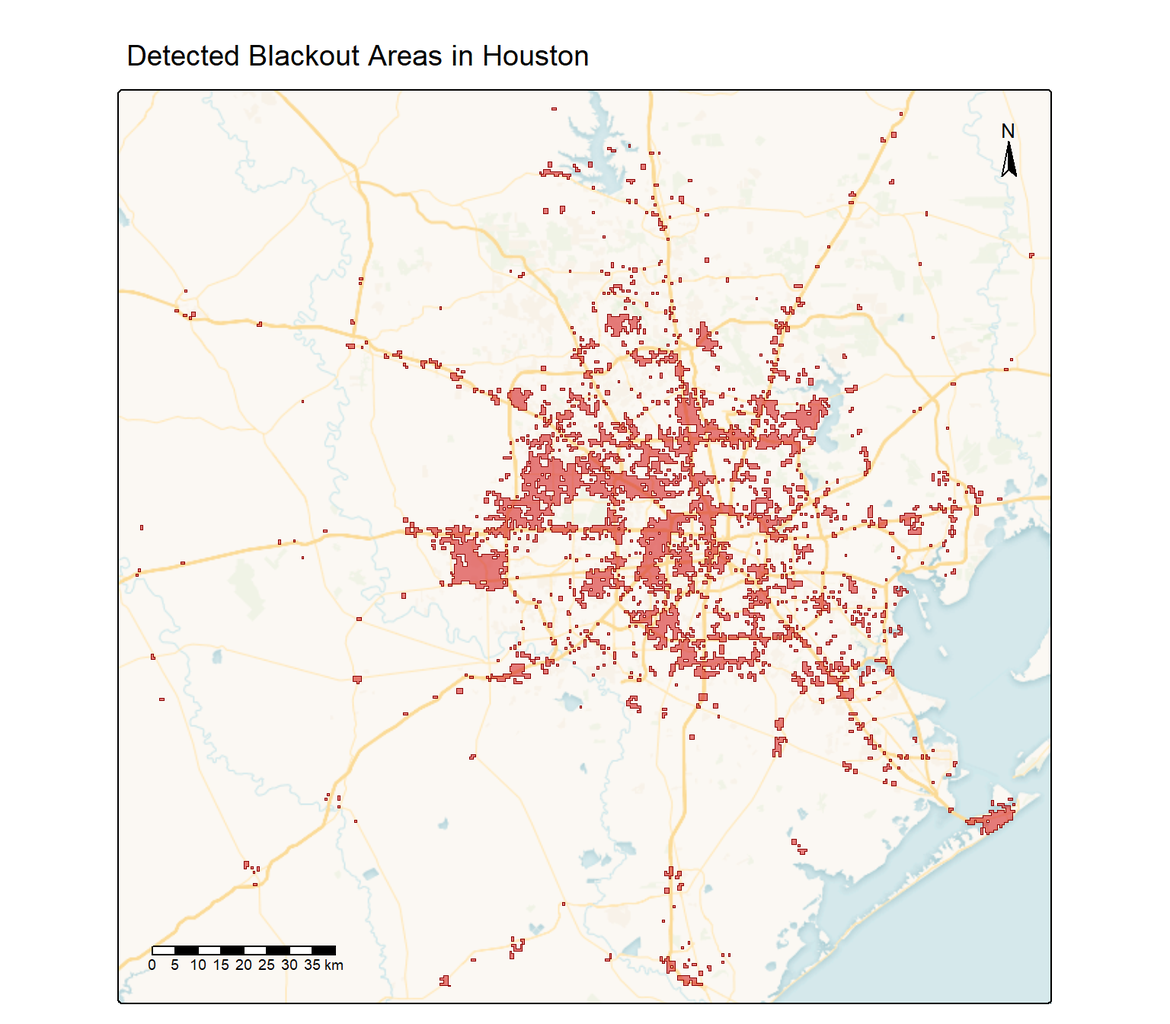
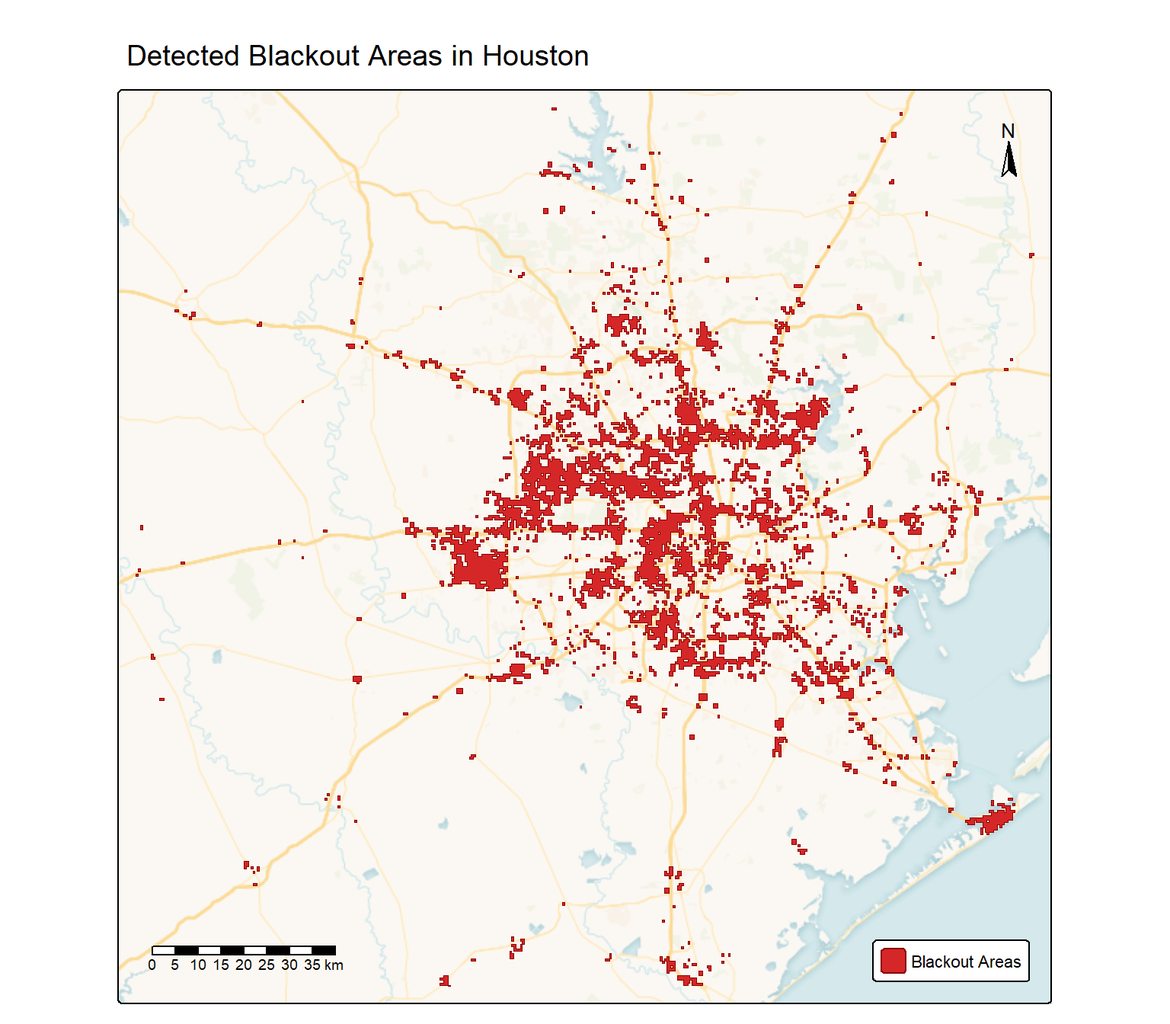
eds232 blog corrections

diff --git a/docs/posts/eds223-final/index.html b/docs/posts/eds223-final/index.html
@@ -228,16 +228,25 @@ div.csl-indent {
                   </div>
   </div>
     
-  
+  <div class="quarto-title-meta-author column-page-left">
+    <div class="quarto-title-meta-heading">Author</div>
+    <div class="quarto-title-meta-heading">Affiliation</div>
+    
+      <div class="quarto-title-meta-contents">
[1 lines of base64/hex data omitted]
+    </div>
+    <div class="quarto-title-meta-contents">
+          <p class="affiliation">
+              <a href="https://bren.ucsb.edu/">
+              The Bren School of Environmental Science and Management, UCSB
+              </a>
+            </p>
+        </div>
+    </div>
+
   <div class="quarto-title-meta column-page-left">
 
-      <div>
-      <div class="quarto-title-meta-heading">Author</div>
-      <div class="quarto-title-meta-contents">
-               <p>Emily Miller </p>
-            </div>
-    </div>
-      
+        
       <div>
       <div class="quarto-title-meta-heading">Published</div>
       <div class="quarto-title-meta-contents">
@@ -283,9 +292,8 @@ div.csl-indent {
   <li><a href="#discussion" id="toc-discussion" class="nav-link" data-scroll-target="#discussion">Discussion</a>
   <ul class="collapse">
   <li><a href="#main-findings" id="toc-main-findings" class="nav-link" data-scroll-target="#main-findings">Main Findings</a></li>
-  <li><a href="#broader-implications" id="toc-broader-implications" class="nav-link" data-scroll-target="#broader-implications">Broader Implications</a></li>
-  <li><a href="#limitations-and-future-directions" id="toc-limitations-and-future-directions" class="nav-link" data-scroll-target="#limitations-and-future-directions">Limitations and Future Directions</a></li>
-  <li><a href="#policy-recommendations" id="toc-policy-recommendations" class="nav-link" data-scroll-target="#policy-recommendations">Policy Recommendations</a></li>
+  <li><a href="#limitations" id="toc-limitations" class="nav-link" data-scroll-target="#limitations">Limitations</a></li>
+  <li><a href="#policy-implications" id="toc-policy-implications" class="nav-link" data-scroll-target="#policy-implications">Policy Implications</a></li>
   </ul></li>
   <li><a href="#conclusion" id="toc-conclusion" class="nav-link" data-scroll-target="#conclusion">Conclusion</a></li>
   <li><a href="#data-sources-and-acknowledgments" id="toc-data-sources-and-acknowledgments" class="nav-link" data-scroll-target="#data-sources-and-acknowledgments">Data Sources and Acknowledgments</a></li>
@@ -499,19 +507,30 @@ div.csl-indent {
 <div class="cell">
 <details class="code-fold">
 <summary>Code</summary>
-<div class="code-copy-outer-scaffold"><div class="sourceCode cell-code" id="cb7"><pre class="sourceCode r code-with-copy"><code class="sourceCode r"><span id="cb7-1"><a href="#cb7-1" aria-hidden="true" tabindex="-1"></a>blackout_houston_union <span class="ot">&lt;-</span> <span class="fu">st_union</span>(blackout_houston)</span>
-<span id="cb7-2"><a href="#cb7-2" aria-hidden="true" tabindex="-1"></a></span>
-<span id="cb7-3"><a href="#cb7-3" aria-hidden="true" tabindex="-1"></a><span class="fu">tm_basemap</span>(<span class="st">"CartoDB.VoyagerNoLabels"</span>) <span class="sc">+</span></span>
-<span id="cb7-4"><a href="#cb7-4" aria-hidden="true" tabindex="-1"></a>  <span class="fu">tm_shape</span>(blackout_houston_union) <span class="sc">+</span></span>
-<span id="cb7-5"><a href="#cb7-5" aria-hidden="true" tabindex="-1"></a>  <span class="fu">tm_polygons</span>(<span class="at">fill =</span> <span class="st">"#d62728"</span>,</span>
-<span id="cb7-6"><a href="#cb7-6" aria-hidden="true" tabindex="-1"></a>              <span class="at">fill_alpha =</span> <span class="fl">0.6</span>,</span>
-<span id="cb7-7"><a href="#cb7-7" aria-hidden="true" tabindex="-1"></a>              <span class="at">col =</span> <span class="st">"#8b0000"</span>,</span>
-<span id="cb7-8"><a href="#cb7-8" aria-hidden="true" tabindex="-1"></a>              <span class="at">lwd =</span> <span class="fl">0.5</span>) <span class="sc">+</span></span>
-<span id="cb7-9"><a href="#cb7-9" aria-hidden="true" tabindex="-1"></a>  <span class="fu">tm_title</span>(<span class="st">"Detected Blackout Areas in Houston"</span>, <span class="at">size =</span> <span class="fl">1.2</span>) <span class="sc">+</span></span>
-<span id="cb7-10"><a href="#cb7-10" aria-hidden="true" tabindex="-1"></a>  <span class="fu">tm_layout</span>(<span class="at">legend.show =</span> <span class="cn">FALSE</span>,</span>
-<span id="cb7-11"><a href="#cb7-11" aria-hidden="true" tabindex="-1"></a>            <span class="at">fontfamily =</span> <span class="st">"sans"</span>) <span class="sc">+</span></span>
-<span id="cb7-12"><a href="#cb7-12" aria-hidden="true" tabindex="-1"></a>  <span class="fu">tm_scalebar</span>(<span class="at">position =</span> <span class="fu">c</span>(<span class="st">"left"</span>, <span class="st">"bottom"</span>), <span class="at">text.size =</span> <span class="fl">0.6</span>) <span class="sc">+</span></span>
-<span id="cb7-13"><a href="#cb7-13" aria-hidden="true" tabindex="-1"></a>  <span class="fu">tm_compass</span>(<span class="at">position =</span> <span class="fu">c</span>(<span class="st">"right"</span>, <span class="st">"top"</span>), <span class="at">size =</span> <span class="fl">1.5</span>)</span></code></pre></div><button title="Copy to Clipboard" class="code-copy-button"><i class="bi"></i></button></div>
+<div class="code-copy-outer-scaffold"><div class="sourceCode cell-code" id="cb7"><pre class="sourceCode r code-with-copy"><code class="sourceCode r"><span id="cb7-1"><a href="#cb7-1" aria-hidden="true" tabindex="-1"></a>road_color <span class="ot">&lt;-</span> <span class="st">"#FDB863"</span></span>
+<span id="cb7-2"><a href="#cb7-2" aria-hidden="true" tabindex="-1"></a>fill_color <span class="ot">&lt;-</span> <span class="st">"#d62728"</span></span>
+<span id="cb7-3"><a href="#cb7-3" aria-hidden="true" tabindex="-1"></a>border_color <span class="ot">&lt;-</span> <span class="st">"#8b0000"</span></span>
+<span id="cb7-4"><a href="#cb7-4" aria-hidden="true" tabindex="-1"></a></span>
+<span id="cb7-5"><a href="#cb7-5" aria-hidden="true" tabindex="-1"></a>blackout_houston_union <span class="ot">&lt;-</span> <span class="fu">st_union</span>(blackout_houston)</span>
+<span id="cb7-6"><a href="#cb7-6" aria-hidden="true" tabindex="-1"></a></span>
+<span id="cb7-7"><a href="#cb7-7" aria-hidden="true" tabindex="-1"></a><span class="fu">tm_basemap</span>(<span class="st">"CartoDB.VoyagerNoLabels"</span>) <span class="sc">+</span></span>
+<span id="cb7-8"><a href="#cb7-8" aria-hidden="true" tabindex="-1"></a>  <span class="fu">tm_shape</span>(blackout_houston_union) <span class="sc">+</span></span>
+<span id="cb7-9"><a href="#cb7-9" aria-hidden="true" tabindex="-1"></a>  <span class="fu">tm_polygons</span>(<span class="at">fill =</span> fill_color,</span>
+<span id="cb7-10"><a href="#cb7-10" aria-hidden="true" tabindex="-1"></a>              <span class="at">col =</span> border_color,</span>
+<span id="cb7-11"><a href="#cb7-11" aria-hidden="true" tabindex="-1"></a>              <span class="at">lwd =</span> <span class="fl">0.5</span>) <span class="sc">+</span></span>
+<span id="cb7-12"><a href="#cb7-12" aria-hidden="true" tabindex="-1"></a>  <span class="fu">tm_title</span>(<span class="st">"Detected Blackout Areas in Houston"</span>, <span class="at">size =</span> <span class="fl">1.2</span>) <span class="sc">+</span></span>
+<span id="cb7-13"><a href="#cb7-13" aria-hidden="true" tabindex="-1"></a>  <span class="fu">tm_add_legend</span>(<span class="at">type =</span> <span class="st">"polygons"</span>,</span>
+<span id="cb7-14"><a href="#cb7-14" aria-hidden="true" tabindex="-1"></a>                <span class="at">fill =</span> fill_color,</span>
+<span id="cb7-15"><a href="#cb7-15" aria-hidden="true" tabindex="-1"></a>                <span class="at">col =</span> border_color,</span>
+<span id="cb7-16"><a href="#cb7-16" aria-hidden="true" tabindex="-1"></a>                <span class="at">border.lwd =</span> <span class="fl">0.5</span>,</span>
+<span id="cb7-17"><a href="#cb7-17" aria-hidden="true" tabindex="-1"></a>                <span class="at">labels =</span> <span class="st">"Blackout Areas"</span>,</span>
+<span id="cb7-18"><a href="#cb7-18" aria-hidden="true" tabindex="-1"></a>                <span class="at">title =</span> <span class="st">""</span>) <span class="sc">+</span></span>
+<span id="cb7-19"><a href="#cb7-19" aria-hidden="true" tabindex="-1"></a>  <span class="fu">tm_layout</span>(<span class="at">legend.position =</span> <span class="fu">c</span>(<span class="st">"right"</span>, <span class="st">"bottom"</span>),</span>
+<span id="cb7-20"><a href="#cb7-20" aria-hidden="true" tabindex="-1"></a>            <span class="at">legend.bg.color =</span> <span class="st">"white"</span>,</span>
+<span id="cb7-21"><a href="#cb7-21" aria-hidden="true" tabindex="-1"></a>            <span class="at">legend.bg.alpha =</span> <span class="fl">0.8</span>,</span>
+<span id="cb7-22"><a href="#cb7-22" aria-hidden="true" tabindex="-1"></a>            <span class="at">text.fontfamily =</span> <span class="st">"sans"</span>) <span class="sc">+</span></span>
+<span id="cb7-23"><a href="#cb7-23" aria-hidden="true" tabindex="-1"></a>  <span class="fu">tm_scalebar</span>(<span class="at">position =</span> <span class="fu">c</span>(<span class="st">"left"</span>, <span class="st">"bottom"</span>), <span class="at">text.size =</span> <span class="fl">0.6</span>) <span class="sc">+</span></span>
+<span id="cb7-24"><a href="#cb7-24" aria-hidden="true" tabindex="-1"></a>  <span class="fu">tm_compass</span>(<span class="at">position =</span> <span class="fu">c</span>(<span class="st">"right"</span>, <span class="st">"top"</span>), <span class="at">size =</span> <span class="fl">1.5</span>)</span></code></pre></div><button title="Copy to Clipboard" class="code-copy-button"><i class="bi"></i></button></div>
 </details>
 <div class="cell-output-display">
 <div class="quarto-figure quarto-figure-center">
@@ -544,35 +563,28 @@ div.csl-indent {
 <summary>Code</summary>
 <div class="code-copy-outer-scaffold"><div class="sourceCode cell-code" id="cb9"><pre class="sourceCode r code-with-copy"><code class="sourceCode r"><span id="cb9-1"><a href="#cb9-1" aria-hidden="true" tabindex="-1"></a><span class="co"># Visualize the highway exclusion process</span></span>
 <span id="cb9-2"><a href="#cb9-2" aria-hidden="true" tabindex="-1"></a><span class="fu">tm_basemap</span>(<span class="st">"CartoDB.VoyagerNoLabels"</span>) <span class="sc">+</span></span>
-<span id="cb9-3"><a href="#cb9-3" aria-hidden="true" tabindex="-1"></a>  <span class="fu">tm_shape</span>(<span class="fu">st_union</span>(blackout_houston)) <span class="sc">+</span></span>
-<span id="cb9-4"><a href="#cb9-4" aria-hidden="true" tabindex="-1"></a>  <span class="fu">tm_polygons</span>(<span class="at">fill =</span> <span class="st">"#d62728"</span>,</span>
-<span id="cb9-5"><a href="#cb9-5" aria-hidden="true" tabindex="-1"></a>              <span class="at">fill_alpha =</span> <span class="fl">0.3</span>,</span>
-<span id="cb9-6"><a href="#cb9-6" aria-hidden="true" tabindex="-1"></a>              <span class="at">col =</span> <span class="st">"#8b0000"</span>,</span>
-<span id="cb9-7"><a href="#cb9-7" aria-hidden="true" tabindex="-1"></a>              <span class="at">lwd =</span> <span class="fl">0.3</span>) <span class="sc">+</span></span>
-<span id="cb9-8"><a href="#cb9-8" aria-hidden="true" tabindex="-1"></a>  <span class="fu">tm_shape</span>(highways) <span class="sc">+</span></span>
-<span id="cb9-9"><a href="#cb9-9" aria-hidden="true" tabindex="-1"></a>  <span class="fu">tm_lines</span>(<span class="at">col =</span> <span class="st">"#FDB863"</span>,</span>
-<span id="cb9-10"><a href="#cb9-10" aria-hidden="true" tabindex="-1"></a>           <span class="at">lwd =</span> <span class="dv">2</span>) <span class="sc">+</span></span>
-<span id="cb9-11"><a href="#cb9-11" aria-hidden="true" tabindex="-1"></a>  <span class="fu">tm_shape</span>(<span class="fu">st_union</span>(blackout_final)) <span class="sc">+</span></span>
-<span id="cb9-12"><a href="#cb9-12" aria-hidden="true" tabindex="-1"></a>  <span class="fu">tm_polygons</span>(<span class="at">fill =</span> <span class="st">"#8b0000"</span>,</span>
-<span id="cb9-13"><a href="#cb9-13" aria-hidden="true" tabindex="-1"></a>              <span class="at">fill_alpha =</span> <span class="fl">0.6</span>,</span>
-<span id="cb9-14"><a href="#cb9-14" aria-hidden="true" tabindex="-1"></a>              <span class="at">col =</span> <span class="st">"#4d0000"</span>,</span>
-<span id="cb9-15"><a href="#cb9-15" aria-hidden="true" tabindex="-1"></a>              <span class="at">lwd =</span> <span class="fl">0.5</span>) <span class="sc">+</span></span>
-<span id="cb9-16"><a href="#cb9-16" aria-hidden="true" tabindex="-1"></a>  <span class="fu">tm_add_legend</span>(<span class="at">type =</span> <span class="st">"fill"</span>,</span>
-<span id="cb9-17"><a href="#cb9-17" aria-hidden="true" tabindex="-1"></a>                <span class="at">labels =</span> <span class="fu">c</span>(<span class="st">"Initial blackout areas"</span>, <span class="st">"Refined blackout areas (highways excluded)"</span>),</span>
-<span id="cb9-18"><a href="#cb9-18" aria-hidden="true" tabindex="-1"></a>                <span class="at">fill =</span> <span class="fu">c</span>(<span class="st">"#d62728"</span>, <span class="st">"#8b0000"</span>),</span>
-<span id="cb9-19"><a href="#cb9-19" aria-hidden="true" tabindex="-1"></a>                <span class="at">fill_alpha =</span> <span class="fu">c</span>(<span class="fl">0.3</span>, <span class="fl">0.6</span>)) <span class="sc">+</span></span>
-<span id="cb9-20"><a href="#cb9-20" aria-hidden="true" tabindex="-1"></a>  <span class="fu">tm_add_legend</span>(<span class="at">type =</span> <span class="st">"line"</span>,</span>
-<span id="cb9-21"><a href="#cb9-21" aria-hidden="true" tabindex="-1"></a>                <span class="at">labels =</span> <span class="st">"Major highways"</span>,</span>
-<span id="cb9-22"><a href="#cb9-22" aria-hidden="true" tabindex="-1"></a>                <span class="at">col =</span> <span class="st">"#FDB863"</span>,</span>
-<span id="cb9-23"><a href="#cb9-23" aria-hidden="true" tabindex="-1"></a>                <span class="at">lwd =</span> <span class="dv">2</span>) <span class="sc">+</span></span>
-<span id="cb9-24"><a href="#cb9-24" aria-hidden="true" tabindex="-1"></a>  <span class="fu">tm_title</span>(<span class="st">"Highway Corridor Exclusion"</span>, <span class="at">size =</span> <span class="fl">1.2</span>) <span class="sc">+</span></span>
-<span id="cb9-25"><a href="#cb9-25" aria-hidden="true" tabindex="-1"></a>  <span class="fu">tm_layout</span>(<span class="at">legend.position =</span> <span class="fu">c</span>(<span class="st">"left"</span>, <span class="st">"top"</span>),</span>
-<span id="cb9-26"><a href="#cb9-26" aria-hidden="true" tabindex="-1"></a>            <span class="at">legend.bg.color =</span> <span class="st">"white"</span>,</span>
-<span id="cb9-27"><a href="#cb9-27" aria-hidden="true" tabindex="-1"></a>            <span class="at">legend.bg.alpha =</span> <span class="fl">0.85</span>,</span>
-<span id="cb9-28"><a href="#cb9-28" aria-hidden="true" tabindex="-1"></a>            <span class="at">legend.text.size =</span> <span class="fl">0.65</span>,</span>
-<span id="cb9-29"><a href="#cb9-29" aria-hidden="true" tabindex="-1"></a>            <span class="at">fontfamily =</span> <span class="st">"sans"</span>) <span class="sc">+</span></span>
-<span id="cb9-30"><a href="#cb9-30" aria-hidden="true" tabindex="-1"></a>  <span class="fu">tm_scalebar</span>(<span class="at">position =</span> <span class="fu">c</span>(<span class="st">"right"</span>, <span class="st">"bottom"</span>), <span class="at">text.size =</span> <span class="fl">0.6</span>) <span class="sc">+</span></span>
-<span id="cb9-31"><a href="#cb9-31" aria-hidden="true" tabindex="-1"></a>  <span class="fu">tm_compass</span>(<span class="at">position =</span> <span class="fu">c</span>(<span class="st">"right"</span>, <span class="st">"top"</span>), <span class="at">size =</span> <span class="fl">1.5</span>)</span></code></pre></div><button title="Copy to Clipboard" class="code-copy-button"><i class="bi"></i></button></div>
+<span id="cb9-3"><a href="#cb9-3" aria-hidden="true" tabindex="-1"></a>  <span class="fu">tm_shape</span>(highways) <span class="sc">+</span></span>
+<span id="cb9-4"><a href="#cb9-4" aria-hidden="true" tabindex="-1"></a>  <span class="fu">tm_lines</span>(<span class="at">col =</span> road_color,</span>
+<span id="cb9-5"><a href="#cb9-5" aria-hidden="true" tabindex="-1"></a>           <span class="at">lwd =</span> <span class="dv">2</span>) <span class="sc">+</span></span>
+<span id="cb9-6"><a href="#cb9-6" aria-hidden="true" tabindex="-1"></a>  <span class="fu">tm_shape</span>(<span class="fu">st_union</span>(blackout_final)) <span class="sc">+</span></span>
+<span id="cb9-7"><a href="#cb9-7" aria-hidden="true" tabindex="-1"></a>  <span class="fu">tm_polygons</span>(<span class="at">fill =</span> fill_color,</span>
+<span id="cb9-8"><a href="#cb9-8" aria-hidden="true" tabindex="-1"></a>              <span class="at">col =</span> <span class="st">"#4d0000"</span>,</span>
+<span id="cb9-9"><a href="#cb9-9" aria-hidden="true" tabindex="-1"></a>              <span class="at">lwd =</span> <span class="fl">0.5</span>) <span class="sc">+</span></span>
+<span id="cb9-10"><a href="#cb9-10" aria-hidden="true" tabindex="-1"></a>  <span class="fu">tm_add_legend</span>(<span class="at">type =</span> <span class="st">"polygons"</span>,</span>
+<span id="cb9-11"><a href="#cb9-11" aria-hidden="true" tabindex="-1"></a>                <span class="at">labels =</span> <span class="st">"Refined blackout areas (highways excluded)"</span>,</span>
+<span id="cb9-12"><a href="#cb9-12" aria-hidden="true" tabindex="-1"></a>                <span class="at">fill =</span> fill_color) <span class="sc">+</span></span>
+<span id="cb9-13"><a href="#cb9-13" aria-hidden="true" tabindex="-1"></a>  <span class="fu">tm_add_legend</span>(<span class="at">type =</span> <span class="st">"lines"</span>,</span>
+<span id="cb9-14"><a href="#cb9-14" aria-hidden="true" tabindex="-1"></a>                <span class="at">labels =</span> <span class="st">"Major highways"</span>,</span>
+<span id="cb9-15"><a href="#cb9-15" aria-hidden="true" tabindex="-1"></a>                <span class="at">col =</span> road_color,</span>
+<span id="cb9-16"><a href="#cb9-16" aria-hidden="true" tabindex="-1"></a>                <span class="at">lwd =</span> <span class="dv">2</span>) <span class="sc">+</span></span>
+<span id="cb9-17"><a href="#cb9-17" aria-hidden="true" tabindex="-1"></a>  <span class="fu">tm_title</span>(<span class="st">"Highway Corridor Exclusion"</span>, <span class="at">size =</span> <span class="fl">1.2</span>) <span class="sc">+</span></span>
+<span id="cb9-18"><a href="#cb9-18" aria-hidden="true" tabindex="-1"></a>  <span class="fu">tm_layout</span>(<span class="at">legend.position =</span> <span class="fu">c</span>(<span class="st">"left"</span>, <span class="st">"top"</span>),</span>
+<span id="cb9-19"><a href="#cb9-19" aria-hidden="true" tabindex="-1"></a>            <span class="at">legend.bg.color =</span> <span class="st">"white"</span>,</span>
+<span id="cb9-20"><a href="#cb9-20" aria-hidden="true" tabindex="-1"></a>            <span class="at">legend.bg.alpha =</span> <span class="fl">0.85</span>,</span>
+<span id="cb9-21"><a href="#cb9-21" aria-hidden="true" tabindex="-1"></a>            <span class="at">legend.text.size =</span> <span class="fl">0.65</span>,</span>
+<span id="cb9-22"><a href="#cb9-22" aria-hidden="true" tabindex="-1"></a>            <span class="at">text.fontfamily =</span> <span class="st">"sans"</span>) <span class="sc">+</span></span>
+<span id="cb9-23"><a href="#cb9-23" aria-hidden="true" tabindex="-1"></a>  <span class="fu">tm_scalebar</span>(<span class="at">position =</span> <span class="fu">c</span>(<span class="st">"right"</span>, <span class="st">"bottom"</span>), <span class="at">text.size =</span> <span class="fl">0.6</span>) <span class="sc">+</span></span>
+<span id="cb9-24"><a href="#cb9-24" aria-hidden="true" tabindex="-1"></a>  <span class="fu">tm_compass</span>(<span class="at">position =</span> <span class="fu">c</span>(<span class="st">"right"</span>, <span class="st">"top"</span>), <span class="at">size =</span> <span class="fl">1.5</span>)</span></code></pre></div><button title="Copy to Clipboard" class="code-copy-button"><i class="bi"></i></button></div>
 </details>
 <div class="cell-output-display">
 <div class="quarto-figure quarto-figure-center">
@@ -601,7 +613,7 @@ div.csl-indent {
 <span id="cb10-8"><a href="#cb10-8" aria-hidden="true" tabindex="-1"></a>pct_impacted <span class="ot">&lt;-</span> <span class="fu">round</span>((n_blackout_homes <span class="sc">/</span> n_total_homes) <span class="sc">*</span> <span class="dv">100</span>, <span class="dv">1</span>)</span></code></pre></div><button title="Copy to Clipboard" class="code-copy-button"><i class="bi"></i></button></div>
 </details>
 </div>
-<p><strong>Finding:</strong> Approximately <strong>157,408</strong> residential buildings (33.1% of structures in the dataset) experienced blackouts during the February 2021 storms.</p>
+<p><strong>Finding:</strong> Approximately <strong>157,410</strong> residential buildings (33.1% of structures in the dataset) experienced blackouts during the February 2021 storms.</p>
 <div class="cell">
 <details class="code-fold">
 <summary>Code</summary>
@@ -654,7 +666,7 @@ div.csl-indent {
 </section>
 <section id="socioeconomic-analysis-income-and-blackout-exposure" class="level3">
 <h3 class="anchored" data-anchor-id="socioeconomic-analysis-income-and-blackout-exposure">Socioeconomic Analysis: Income and Blackout Exposure</h3>
-<p>To investigate potential disparities in blackout impacts, I analyzed the relationship between census tract median household income and blackout exposure.</p>
+<p>Understanding <em>where</em> blackouts occurred is only part of the story. To assess whether impacts were distributed equitably, I aggregated affected buildings by census tract and examined their relationship to median household income. This tract-level analysis reveals whether certain communities bore a disproportionate burden during the crisis.</p>
 <div class="cell">
 <details class="code-fold">
 <summary>Code</summary>
@@ -688,24 +700,28 @@ div.csl-indent {
 <div class="cell">
 <details class="code-fold">
 <summary>Code</summary>
-<div class="code-copy-outer-scaffold"><div class="sourceCode cell-code" id="cb14"><pre class="sourceCode r code-with-copy"><code class="sourceCode r"><span id="cb14-1"><a href="#cb14-1" aria-hidden="true" tabindex="-1"></a><span class="fu">tm_basemap</span>(<span class="st">"CartoDB.VoyagerNoLabels"</span>) <span class="sc">+</span></span>
-<span id="cb14-2"><a href="#cb14-2" aria-hidden="true" tabindex="-1"></a>  <span class="fu">tm_shape</span>(houston_tracts) <span class="sc">+</span></span>
-<span id="cb14-3"><a href="#cb14-3" aria-hidden="true" tabindex="-1"></a>  <span class="fu">tm_fill</span>(<span class="at">fill =</span> <span class="st">"impact_category"</span>,</span>
-<span id="cb14-4"><a href="#cb14-4" aria-hidden="true" tabindex="-1"></a>          <span class="at">fill.scale =</span> <span class="fu">tm_scale</span>(<span class="at">values =</span> <span class="fu">c</span>(<span class="st">"white"</span>, <span class="st">"#feedde"</span>, <span class="st">"#fdd0a2"</span>, <span class="st">"#fdae6b"</span>,</span>
-<span id="cb14-5"><a href="#cb14-5" aria-hidden="true" tabindex="-1"></a>                                          <span class="st">"#fd8d3c"</span>, <span class="st">"#e6550d"</span>, <span class="st">"#a63603"</span>),</span>
-<span id="cb14-6"><a href="#cb14-6" aria-hidden="true" tabindex="-1"></a>                                <span class="at">value.na =</span> <span class="st">"transparent"</span>),</span>
-<span id="cb14-7"><a href="#cb14-7" aria-hidden="true" tabindex="-1"></a>          <span class="at">fill.legend =</span> <span class="fu">tm_legend</span>(<span class="at">title =</span> <span class="st">"Impacted Homes</span><span class="sc">\n</span><span class="st">per Census Tract"</span>,</span>
-<span id="cb14-8"><a href="#cb14-8" aria-hidden="true" tabindex="-1"></a>                                  <span class="at">title.size =</span> <span class="fl">0.9</span>,</span>
-<span id="cb14-9"><a href="#cb14-9" aria-hidden="true" tabindex="-1"></a>                                  <span class="at">text.size =</span> <span class="fl">0.65</span>)) <span class="sc">+</span></span>
-<span id="cb14-10"><a href="#cb14-10" aria-hidden="true" tabindex="-1"></a>  <span class="fu">tm_borders</span>(<span class="at">col =</span> <span class="st">"grey50"</span>, <span class="at">lwd =</span> <span class="fl">0.3</span>) <span class="sc">+</span></span>
-<span id="cb14-11"><a href="#cb14-11" aria-hidden="true" tabindex="-1"></a>  <span class="fu">tm_title</span>(<span class="st">"Blackout Severity by Census Tract"</span>, <span class="at">size =</span> <span class="fl">1.3</span>) <span class="sc">+</span></span>
-<span id="cb14-12"><a href="#cb14-12" aria-hidden="true" tabindex="-1"></a>  <span class="fu">tm_scalebar</span>(<span class="at">position =</span> <span class="fu">c</span>(<span class="st">"left"</span>, <span class="st">"bottom"</span>), <span class="at">text.size =</span> <span class="fl">0.6</span>) <span class="sc">+</span></span>
-<span id="cb14-13"><a href="#cb14-13" aria-hidden="true" tabindex="-1"></a>  <span class="fu">tm_compass</span>(<span class="at">position =</span> <span class="fu">c</span>(<span class="st">"right"</span>, <span class="st">"top"</span>), <span class="at">size =</span> <span class="fl">1.5</span>) <span class="sc">+</span></span>
-<span id="cb14-14"><a href="#cb14-14" aria-hidden="true" tabindex="-1"></a>  <span class="fu">tm_layout</span>(<span class="at">legend.outside =</span> <span class="cn">FALSE</span>,</span>
-<span id="cb14-15"><a href="#cb14-15" aria-hidden="true" tabindex="-1"></a>            <span class="at">legend.position =</span> <span class="fu">c</span>(<span class="st">"right"</span>, <span class="st">"top"</span>),</span>
-<span id="cb14-16"><a href="#cb14-16" aria-hidden="true" tabindex="-1"></a>            <span class="at">legend.bg.color =</span> <span class="st">"white"</span>,</span>
-<span id="cb14-17"><a href="#cb14-17" aria-hidden="true" tabindex="-1"></a>            <span class="at">legend.bg.alpha =</span> <span class="fl">0.85</span>,</span>
-<span id="cb14-18"><a href="#cb14-18" aria-hidden="true" tabindex="-1"></a>            <span class="at">fontfamily =</span> <span class="st">"sans"</span>)</span></code></pre></div><button title="Copy to Clipboard" class="code-copy-button"><i class="bi"></i></button></div>
+<div class="code-copy-outer-scaffold"><div class="sourceCode cell-code" id="cb14"><pre class="sourceCode r code-with-copy"><code class="sourceCode r"><span id="cb14-1"><a href="#cb14-1" aria-hidden="true" tabindex="-1"></a><span class="co"># Transform tracts to match crs of basemap (this is done automatically by tmap, code included for transparency)</span></span>
+<span id="cb14-2"><a href="#cb14-2" aria-hidden="true" tabindex="-1"></a>houston_tracts_proj <span class="ot">&lt;-</span> <span class="fu">st_transform</span>(houston_tracts, <span class="at">crs =</span> <span class="dv">3857</span>)</span>
+<span id="cb14-3"><a href="#cb14-3" aria-hidden="true" tabindex="-1"></a></span>
+<span id="cb14-4"><a href="#cb14-4" aria-hidden="true" tabindex="-1"></a><span class="co"># Plot houses in census tracts affected by blackouts</span></span>
+<span id="cb14-5"><a href="#cb14-5" aria-hidden="true" tabindex="-1"></a><span class="fu">tm_basemap</span>(<span class="st">"CartoDB.VoyagerNoLabels"</span>) <span class="sc">+</span></span>
+<span id="cb14-6"><a href="#cb14-6" aria-hidden="true" tabindex="-1"></a>  <span class="fu">tm_shape</span>(houston_tracts_proj) <span class="sc">+</span></span>
+<span id="cb14-7"><a href="#cb14-7" aria-hidden="true" tabindex="-1"></a>  <span class="fu">tm_fill</span>(<span class="at">fill =</span> <span class="st">"impact_category"</span>,</span>
+<span id="cb14-8"><a href="#cb14-8" aria-hidden="true" tabindex="-1"></a>          <span class="at">fill.scale =</span> <span class="fu">tm_scale</span>(<span class="at">values =</span> <span class="fu">c</span>(<span class="st">"white"</span>, <span class="st">"#feedde"</span>, <span class="st">"#fdd0a2"</span>, <span class="st">"#fdae6b"</span>,</span>
+<span id="cb14-9"><a href="#cb14-9" aria-hidden="true" tabindex="-1"></a>                                          <span class="st">"#fd8d3c"</span>, <span class="st">"#e6550d"</span>, <span class="st">"#a63603"</span>),</span>
+<span id="cb14-10"><a href="#cb14-10" aria-hidden="true" tabindex="-1"></a>                                <span class="at">value.na =</span> <span class="st">"transparent"</span>),</span>
+<span id="cb14-11"><a href="#cb14-11" aria-hidden="true" tabindex="-1"></a>          <span class="at">fill.legend =</span> <span class="fu">tm_legend</span>(<span class="at">title =</span> <span class="st">"Impacted Homes</span><span class="sc">\n</span><span class="st">per Census Tract"</span>,</span>
+<span id="cb14-12"><a href="#cb14-12" aria-hidden="true" tabindex="-1"></a>                                  <span class="at">title.size =</span> <span class="fl">0.9</span>,</span>
+<span id="cb14-13"><a href="#cb14-13" aria-hidden="true" tabindex="-1"></a>                                  <span class="at">text.size =</span> <span class="fl">0.65</span>)) <span class="sc">+</span></span>
+<span id="cb14-14"><a href="#cb14-14" aria-hidden="true" tabindex="-1"></a>  <span class="fu">tm_borders</span>(<span class="at">col =</span> <span class="st">"grey50"</span>, <span class="at">lwd =</span> <span class="fl">0.3</span>) <span class="sc">+</span></span>
+<span id="cb14-15"><a href="#cb14-15" aria-hidden="true" tabindex="-1"></a>  <span class="fu">tm_title</span>(<span class="st">"Blackout Severity by Census Tract"</span>, <span class="at">size =</span> <span class="fl">1.3</span>) <span class="sc">+</span></span>
+<span id="cb14-16"><a href="#cb14-16" aria-hidden="true" tabindex="-1"></a>  <span class="fu">tm_scalebar</span>(<span class="at">position =</span> <span class="fu">c</span>(<span class="st">"left"</span>, <span class="st">"bottom"</span>), <span class="at">text.size =</span> <span class="fl">0.6</span>) <span class="sc">+</span></span>
+<span id="cb14-17"><a href="#cb14-17" aria-hidden="true" tabindex="-1"></a>  <span class="fu">tm_compass</span>(<span class="at">position =</span> <span class="fu">c</span>(<span class="st">"left"</span>, <span class="st">"top"</span>), <span class="at">size =</span> <span class="fl">1.5</span>) <span class="sc">+</span></span>
+<span id="cb14-18"><a href="#cb14-18" aria-hidden="true" tabindex="-1"></a>  <span class="fu">tm_layout</span>(<span class="at">legend.outside =</span> <span class="cn">FALSE</span>,</span>
+<span id="cb14-19"><a href="#cb14-19" aria-hidden="true" tabindex="-1"></a>            <span class="at">legend.position =</span> <span class="fu">c</span>(<span class="st">"right"</span>, <span class="st">"top"</span>),</span>
+<span id="cb14-20"><a href="#cb14-20" aria-hidden="true" tabindex="-1"></a>            <span class="at">legend.bg.color =</span> <span class="st">"white"</span>,</span>
+<span id="cb14-21"><a href="#cb14-21" aria-hidden="true" tabindex="-1"></a>            <span class="at">legend.bg.alpha =</span> <span class="fl">0.85</span>,</span>
+<span id="cb14-22"><a href="#cb14-22" aria-hidden="true" tabindex="-1"></a>            <span class="at">text.fontfamily =</span> <span class="st">"sans"</span>)</span></code></pre></div><button title="Copy to Clipboard" class="code-copy-button"><i class="bi"></i></button></div>
 </details>
 <div class="cell-output-display">
 <div class="quarto-figure quarto-figure-center">
@@ -716,7 +732,8 @@ div.csl-indent {
 </div>
 </div>
 </div>
-<p>The census tract analysis reveals substantial variation in blackout severity. Some tracts lost power for more than 1,500 residential buildings, while others experienced minimal disruption.</p>
+<p>The census tract analysis reveals substantial variation in blackout severity. Some tracts lost power for more than 1,500 residential buildings, while others experienced minimal disruption. This raises a critical question: were certain communities disproportionately affected?</p>
+<p>Previous research on climate disasters shows that low-income communities and communities of color often experience greater exposure and more severe impacts. To investigate whether similar patterns emerged during the Texas blackouts, I analyzed the relationship between median household income and blackout exposure.</p>
 <div class="cell">
 <details class="code-fold">
 <summary>Code</summary>
@@ -809,51 +826,25 @@ div.csl-indent {
 <h2 class="anchored" data-anchor-id="discussion">Discussion</h2>
 <section id="main-findings" class="level3">
 <h3 class="anchored" data-anchor-id="main-findings">Main Findings</h3>
-<p>This spatial analysis identified approximately <strong>157,408</strong> residential buildings in the Houston metropolitan area that experienced power outages during the February 2021 winter storms. The widespread nature of these blackouts—affecting 33.1% of buildings in the study area—underscores the severity of the grid failure.</p>
-<p>Contrary to patterns often observed in climate disasters, this analysis found minimal income-based disparities in blackout exposure. Both lower-income and higher-income census tracts experienced similar rates of power loss. This pattern likely reflects the unprecedented scale and systemic nature of the grid failure. When the entire electrical system was compromised by extreme cold, infrastructure vulnerabilities transcended neighborhood boundaries.</p>
+<p>This analysis identified approximately <strong>157,410</strong> residential buildings (33.1% of the study area) that lost power during the February 2021 storms. Unlike typical climate disasters, blackout exposure showed minimal income-based disparities—tracts with and without blackouts had median incomes differing by only ~$3,000 (5%). This likely reflects the systemic nature of the grid failure: when the entire system collapsed, infrastructure vulnerabilities crossed neighborhood boundaries.</p>
+<p>However, <em>exposure</em> differs from <em>impact</em>. Low-income communities faced greater difficulty evacuating, accessing backup heating, and recovering—even when blackout rates were similar <span class="citation" data-cites="gronlund2022">(<a href="#ref-gronlund2022" role="doc-biblioref">Gronlund 2014</a>)</span>.</p>
 </section>
-<section id="broader-implications" class="level3">
-<h3 class="anchored" data-anchor-id="broader-implications">Broader Implications</h3>
-<p>While this analysis found relatively equitable blackout exposure across income levels, the <em>impacts</em> of those blackouts may have been highly inequitable. Research following the 2021 storms documented that low-income communities faced:</p>
-<ul>
-<li>Greater difficulty evacuating to heated locations</li>
-<li>Limited access to backup heating sources</li>
-<li>Longer recovery times</li>
-<li>Higher health impacts from cold exposure <span class="citation" data-cites="gronlund2022">(<a href="#ref-gronlund2022" role="doc-biblioref">Gronlund 2014</a>)</span></li>
-</ul>
-<p>This distinction between exposure and vulnerability is critical for emergency planning. Even when disasters affect communities uniformly, pre-existing inequalities shape how severely people experience those impacts.</p>
+<section id="limitations" class="level3">
+<h3 class="anchored" data-anchor-id="limitations">Limitations</h3>
+<p><strong>Temporal resolution:</strong> Two snapshots cannot capture outage duration, which may vary by neighborhood.</p>
+<p><strong>Threshold sensitivity:</strong> The 200 nW cm⁻²sr⁻¹ cutoff is somewhat arbitrary and may miss some outages.</p>
+<p><strong>Data gaps:</strong> OpenStreetMap building coverage varies geographically, potentially introducing spatial bias.</p>
+<p><strong>Highway exclusion:</strong> The 200m buffer may inadvertently exclude legitimate residential blackouts.</p>
+<p>Future work should incorporate daily time series data, analyze additional socioeconomic indicators, integrate health outcomes, and ground-truth results with utility records.</p>
 </section>
-<section id="limitations-and-future-directions" class="level3">
-<h3 class="anchored" data-anchor-id="limitations-and-future-directions">Limitations and Future Directions</h3>
-<p>Several methodological limitations should be noted:</p>
-<p><strong>Temporal resolution:</strong> This analysis compares only two snapshots in time. A more detailed temporal analysis could reveal variations in outage duration across neighborhoods, which may correlate with socioeconomic factors.</p>
-<p><strong>Threshold sensitivity:</strong> The 200 nW cm⁻²sr⁻¹ threshold for defining blackouts is somewhat arbitrary. Some genuine outages may fall below this threshold, while brief flickers above it might not represent sustained power loss.</p>
-<p><strong>Building data completeness:</strong> OpenStreetMap data coverage varies geographically. Some residential buildings may be missing from the dataset, potentially introducing bias if data quality correlates with neighborhood characteristics.</p>
-<p><strong>Highway buffer distance:</strong> The 200-meter highway exclusion buffer, while reasonable, may inadvertently exclude some legitimate residential blackouts or fail to capture all traffic-related light changes.</p>
-<p>Future research could enhance this analysis by:</p>
-<ul>
-<li>Incorporating daily VIIRS data throughout the multi-day blackout event to assess temporal patterns</li>
-<li>Comparing blackout exposure to other socioeconomic indicators (race, age, housing tenure)</li>
-<li>Analyzing recovery times and their relationship to community characteristics</li>
-<li>Integrating health outcome data to assess disparate impacts beyond simple exposure</li>
-<li>Conducting ground-truthing with utility company outage records where available</li>
-</ul>
-</section>
-<section id="policy-recommendations" class="level3">
-<h3 class="anchored" data-anchor-id="policy-recommendations">Policy Recommendations</h3>
-<p>This analysis supports several policy recommendations for improving grid resilience and emergency preparedness:</p>
-<ol type="1">
-<li><strong>Infrastructure hardening:</strong> The widespread nature of blackouts indicates systemic vulnerabilities that require comprehensive winterization of generation facilities and transmission infrastructure</li>
-<li><strong>Emergency response planning:</strong> Even when disasters affect communities uniformly, response systems should account for differential vulnerabilities and capacities to cope with outages</li>
-<li><strong>Grid interconnection:</strong> Texas’s electrical isolation limited backup power options during the crisis, suggesting value in greater regional grid connectivity</li>
-<li><strong>Continued monitoring:</strong> Remote sensing approaches like this analysis can complement utility reporting to provide rapid, independent assessment of disaster impacts</li>
-</ol>
+<section id="policy-implications" class="level3">
+<h3 class="anchored" data-anchor-id="policy-implications">Policy Implications</h3>
+<p>The widespread blackouts indicate systemic vulnerabilities requiring comprehensive infrastructure winterization. Even when disasters affect communities uniformly, emergency response must account for differential vulnerabilities. Texas’s grid isolation limited backup options during the crisis, suggesting value in regional interconnection. Remote sensing approaches can provide rapid, independent disaster assessment to complement utility reporting.</p>
 </section>
 </section>
 <section id="conclusion" class="level2">
 <h2 class="anchored" data-anchor-id="conclusion">Conclusion</h2>
-<p>The February 2021 Texas blackouts represented a catastrophic failure of critical infrastructure affecting millions of residents. This spatial analysis demonstrates how satellite remote sensing combined with socioeconomic data can rapidly assess disaster impacts and identify affected communities. While the blackouts affected Houston relatively uniformly across income levels, likely due to the systemic nature of the grid failure, this does not mean the crisis was experienced equitably. Understanding both exposure patterns and underlying vulnerabilities remains essential for building more resilient and just infrastructure systems.</p>
-<p>As climate change increases the frequency and severity of extreme weather events, tools and approaches for rapid disaster assessment will become increasingly valuable for emergency response, recovery planning, and long-term adaptation.</p>
+<p>The February 2021 blackouts revealed catastrophic infrastructure vulnerabilities affecting millions. This analysis demonstrates how satellite remote sensing combined with socioeconomic data enables rapid disaster assessment. While blackouts affected Houston relatively uniformly across income levels—likely due to systemic grid failure—this doesn’t mean impacts were equitable. Understanding both exposure patterns and underlying vulnerabilities remains essential for building resilient, just infrastructure as climate change intensifies extreme weather events.</p>
 </section>
 <section id="data-sources-and-acknowledgments" class="level2">
 <h2 class="anchored" data-anchor-id="data-sources-and-acknowledgments">Data Sources and Acknowledgments</h2>

diff --git a/docs/blog.html b/docs/blog.html
@@ -241,7 +241,7 @@ window.Quarto = {
 
 <div class="quarto-listing quarto-listing-container-default" id="listing-listing">
 <div class="list quarto-listing-default">
[2 lines of base64/hex data omitted]
 <div class="thumbnail"><a href="./posts/eds223-final/index.html" class="no-external">
 
 <img loading="lazy" src="./posts/eds223-final/eds223-final-cover.jpg" class="thumbnail-image">
